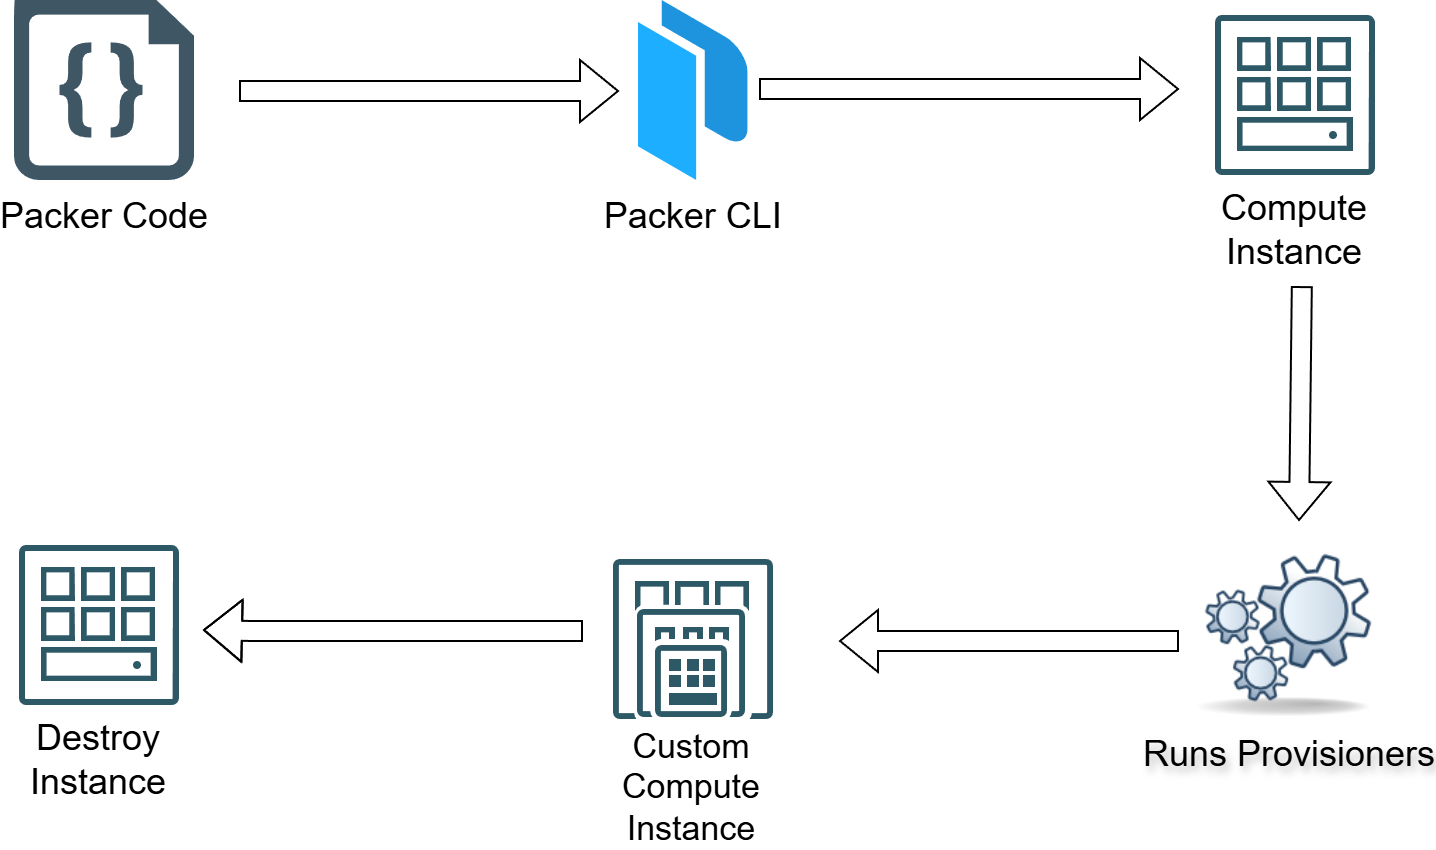
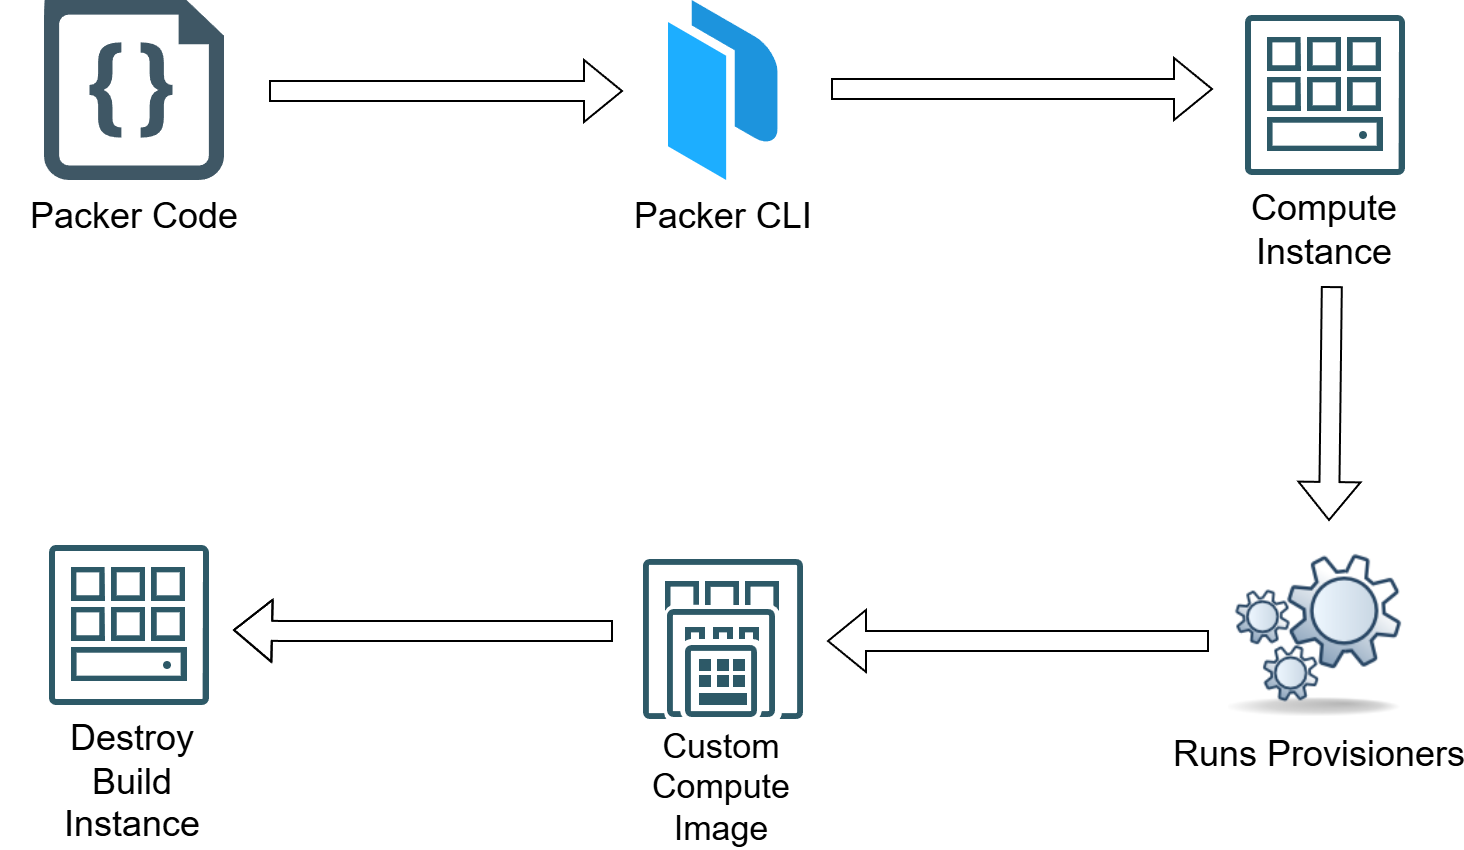
work on diagrams

diff --git a/README.md b/README.md
@@ -4,10 +4,16 @@ In the OCI solution, we use Packer to build both **Linux images** and **Windows 
 
 - For **Linux**, we configure an Ubuntu 24.04 image with Apache and deploy several retro HTML games. The source for the HTML games can be found at [https://gist.github.com/straker](https://gist.github.com/straker)
 - For **Windows**, we install Chrome and Firefox, apply the **latest Windows Updates**, and configure WinRM using a **cloudbase-init user data script**.
-- We use **cloudbase-init** to reset instance state on each deployment — the OCI equivalent of EC2Launch Sysprep — ensuring a clean, reusable image every time.
-- The images are built inside a **VCN and subnet** provisioned by Terraform in Phase 1.
-- We test deployments by accessing the Linux instance over **HTTP (port 80)** and the Windows instance via **RDP** using a local `packer` account with a secure password.
-- **Windows is optional** — set `BUILD_WINDOWS=false` before running `apply.sh` to skip the Windows build and deployment entirely.
+
+![packer diagram](oci-packer.png)
+
+We use **cloudbase-init** to reset instance state on each deployment — the OCI equivalent of EC2Launch Sysprep — ensuring a clean, reusable image every time.
+
+The images are built inside a **VCN and subnet** provisioned by Terraform in Phase 1.
+
+We test deployments by accessing the Linux instance over **HTTP (port 80)** and the Windows instance via **RDP** using a local `packer` account with a secure password.
+
+**Windows is optional** — set `BUILD_WINDOWS=false` before running `apply.sh` to skip the Windows build and deployment entirely.
 
 ## Packer Workflow
 